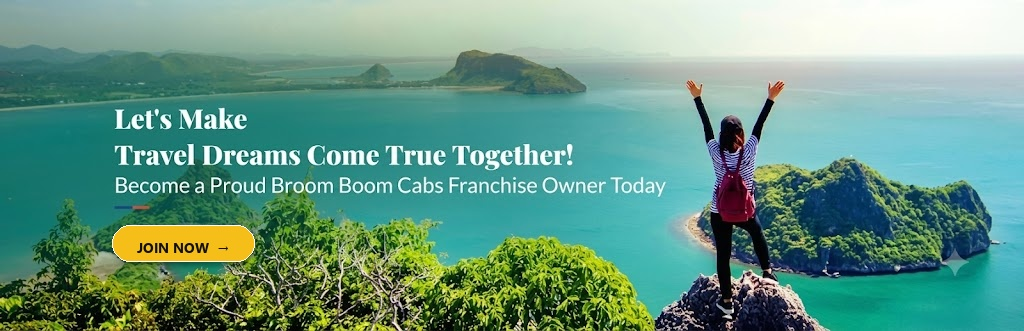
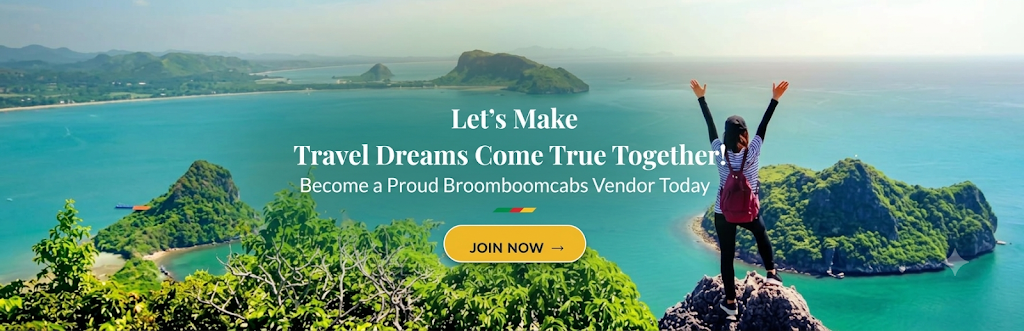
fix

diff --git a/broomboomvendor page/src/app/layout.tsx b/broomboomvendor page/src/app/layout.tsx
@@ -27,7 +27,6 @@ export const metadata: Metadata = {
     "BroomBoom cabs",
   ],
 
-  // Keep Vendor page out of Google
   robots: {
     index: true,
     follow: true,
@@ -38,7 +37,6 @@ export const metadata: Metadata = {
       "https://vendor.broomboomcabs.com"
   ),
 
-  // Open Graph
   openGraph: {
     title:
       "BroomBoom Vendor Partner | Attach Your Cabs & Fleet with India's Leading Network",
@@ -62,12 +60,10 @@ export const metadata: Metadata = {
     type: "website",
   },
 
-  // Twitter
   twitter: {
     card: "summary_large_image",
 
-    title:
-      "BroomBoom Vendor Partner | Attach Your Cabs & Fleet",
+    title: "BroomBoom Vendor Partner | Attach Your Cabs & Fleet",
 
     description:
       "Attach your commercial cabs, sedans, SUVs, and fleet with BroomBoom. Enjoy 0% introductory commission and daily direct bank settlements.",
@@ -75,16 +71,11 @@ export const metadata: Metadata = {
     images: ["/broomboom-logo.png"],
   },
 
-  // PWA / App icons
   icons: {
     icon: [
       {
         url: "/favicon.ico",
         sizes: "any",
-      },
-      {
-        url: "/broomboom-logo.png",
-        type: "image/png",
       },
       {
         url: "/favicon-48x48.png",
@@ -111,14 +102,9 @@ export const metadata: Metadata = {
         sizes: "180x180",
         type: "image/png",
       },
-      {
-        url: "/broomboom-logo.png",
-        type: "image/png",
-      },
     ],
   },
 
-  // Web App Manifest
   manifest: "/site.webmanifest",
 
   applicationName: "BroomBoom Vendor",
@@ -140,59 +126,39 @@ export const metadata: Metadata = {
 
 export default function RootLayout({
   children,
-}: {
+}: Readonly<{
   children: React.ReactNode;
-}) {
+}>) {
   return (
-    <html lang="en" className="scroll-smooth">
-      <head>
-        {/* ================================
-            Google Tag Manager
-            GTM-N6D7HH8
-        ================================= */}
+    <html lang="en" className="scroll-smooth" suppressHydrationWarning>
+      <body className="min-h-screen bg-puja-cream text-slate-900 antialiased" suppressHydrationWarning>
+        {/* Google Tag Manager */}
         <Script
           id="google-tag-manager"
-          strategy="afterInteractive"
-          dangerouslySetInnerHTML={{
-            __html: `
-              (function(w,d,s,l,i){w[l]=w[l]||[];w[l].push({'gtm.start':
-              new Date().getTime(),event:'gtm.js'});var f=d.getElementsByTagName(s)[0],
-              j=d.createElement(s),dl=l!='dataLayer'?'&l='+l:'';j.async=true;j.src=
-              'https://www.googletagmanager.com/gtm.js?id='+i+dl;f.parentNode.insertBefore(j,f);
-              })(window,document,'script','dataLayer','GTM-N6D7HH8');
-            `,
-          }}
-        />
+          strategy="lazyOnload"
+        >
+          {`
+            (function(w,d,s,l,i){
+              w[l]=w[l]||[];
+              w[l].push({
+                'gtm.start': new Date().getTime(),
+                event:'gtm.js'
+              });
 
-        {/* ================================
-            Google Analytics 4
-            G-JD89KXBSS2
-        ================================= */}
-        <Script
-          src="https://www.googletagmanager.com/gtag/js?id=G-JD89KXBSS2"
-          strategy="afterInteractive"
-        />
+              var f=d.getElementsByTagName(s)[0],
+                  j=d.createElement(s),
+                  dl=l!='dataLayer'?'&l='+l:'';
 
-        <Script
-          id="google-analytics"
-          strategy="afterInteractive"
-          dangerouslySetInnerHTML={{
-            __html: `
-              window.dataLayer = window.dataLayer || [];
-              function gtag(){dataLayer.push(arguments);}
-              gtag('js', new Date());
-              gtag('config', 'G-JD89KXBSS2');
-            `,
-          }}
-        />
-      </head>
+              j.async=true;
+              j.src='https://www.googletagmanager.com/gtm.js?id='+i+dl;
 
-      <body className="antialiased text-slate-900 bg-puja-cream min-h-screen">
-        {/* ================================
-            Google Tag Manager noscript
-            GTM-N6D7HH8
-        ================================= */}
-        <noscript>
+              f.parentNode.insertBefore(j,f);
+            })(window,document,'script','dataLayer','GTM-N6D7HH8');
+          `}
+        </Script>
+
+        {/* Google Tag Manager - NoScript */}
+        <noscript suppressHydrationWarning>
           <iframe
             src="https://www.googletagmanager.com/ns.html?id=GTM-N6D7HH8"
             height="0"
@@ -201,10 +167,10 @@ export default function RootLayout({
               display: "none",
               visibility: "hidden",
             }}
+            title="Google Tag Manager"
           />
         </noscript>
 
-        {/* Main Application */}
         {children}
       </body>
     </html>

diff --git a/broomboomvendor page/public/sw.js b/broomboomvendor page/public/sw.js
@@ -1,26 +1,92 @@
 // BroomBoom Vendor App Service Worker for PWA
-const CACHE_NAME = 'broomboom-vendor-v1';
 
-self.addEventListener('install', (event) => {
+const CACHE_NAME = "broomboom-vendor-v2";
+
+// If running on localhost or in development, do not intercept requests and auto-unregister
+const isLocalhost =
+  self.location.hostname === "localhost" ||
+  self.location.hostname === "127.0.0.1" ||
+  self.location.hostname.endsWith(".local");
+
+self.addEventListener("install", (event) => {
   self.skipWaiting();
 });
 
-self.addEventListener('activate', (event) => {
+self.addEventListener("activate", (event) => {
   event.waitUntil(
-    caches.keys().then((cacheNames) => {
-      return Promise.all(
+    (async () => {
+      if (isLocalhost) {
+        // Clean all caches and unregister on localhost
+        const cacheNames = await caches.keys();
+        await Promise.all(cacheNames.map((name) => caches.delete(name)));
+        await self.registration.unregister();
+        return;
+      }
+      const cacheNames = await caches.keys();
+      await Promise.all(
         cacheNames
           .filter((name) => name !== CACHE_NAME)
           .map((name) => caches.delete(name))
       );
-    }).then(() => self.clients.claim())
+      await self.clients.claim();
+    })()
   );
 });
 
-self.addEventListener('fetch', (event) => {
-  // Let browser handle normal network requests
-  if (event.request.method !== 'GET') return;
+self.addEventListener("fetch", (event) => {
+  // Never intercept requests on localhost
+  if (isLocalhost) {
+    return;
+  }
+
+  // Only handle GET requests
+  if (event.request.method !== "GET") {
+    return;
+  }
+
+  const url = new URL(event.request.url);
+
+  // NEVER intercept Next.js internals, static chunks, HMR, or API endpoints
+  if (
+    url.pathname.startsWith("/_next/") ||
+    url.pathname.startsWith("/api/") ||
+    url.pathname.includes("webpack") ||
+    (url.protocol !== "http:" && url.protocol !== "https:")
+  ) {
+    return;
+  }
+
+  // For navigational requests (HTML pages), try network first
+  if (event.request.mode === "navigate") {
+    event.respondWith(
+      fetch(event.request).catch(async () => {
+        const cachedResponse = await caches.match(event.request);
+        if (cachedResponse) {
+          return cachedResponse;
+        }
+        return new Response(
+          "<!DOCTYPE html><html><body style='font-family:sans-serif;text-align:center;padding:50px;'><h2>Offline</h2><p>Please check your internet connection.</p></body></html>",
+          {
+            status: 503,
+            statusText: "Service Unavailable",
+            headers: {
+              "Content-Type": "text/html; charset=utf-8",
+            },
+          }
+        );
+      })
+    );
+    return;
+  }
+
+  // For other static assets (images, fonts)
   event.respondWith(
-    fetch(event.request).catch(() => caches.match(event.request))
+    fetch(event.request).catch(async () => {
+      const cachedResponse = await caches.match(event.request);
+      if (cachedResponse) {
+        return cachedResponse;
+      }
+      return new Response("", { status: 408, statusText: "Request Timeout" });
+    })
   );
 });

diff --git a/broomboomvendor page/src/components/PwaInstallPrompt.tsx b/broomboomvendor page/src/components/PwaInstallPrompt.tsx
@@ -23,12 +23,31 @@ export const PwaInstallPrompt: React.FC = () => {
       return;
     }
 
-    // Register Service Worker for PWA
-    if ("serviceWorker" in navigator) {
-      navigator.serviceWorker
-        .register("/sw.js")
-        .then((reg) => console.log("PWA Service Worker registered:", reg.scope))
-        .catch((err) => console.log("PWA SW registration failed:", err));
+    // Register Service Worker for PWA (production and non-localhost only)
+    if (typeof window !== "undefined" && "serviceWorker" in navigator) {
+      const isLocalhost =
+        window.location.hostname === "localhost" ||
+        window.location.hostname === "127.0.0.1" ||
+        window.location.hostname.endsWith(".local");
+
+      if (isLocalhost || process.env.NODE_ENV !== "production") {
+        // Automatically cleanup any active or broken service workers on localhost
+        navigator.serviceWorker.getRegistrations().then((registrations) => {
+          for (const registration of registrations) {
+            registration.unregister();
+          }
+        });
+        if ("caches" in window) {
+          caches.keys().then((keys) => {
+            keys.forEach((key) => caches.delete(key));
+          });
+        }
+      } else {
+        navigator.serviceWorker
+          .register("/sw.js")
+          .then((reg) => console.log("PWA Service Worker registered:", reg.scope))
+          .catch((err) => console.log("PWA SW registration failed:", err));
+      }
     }
 
     // Detect iOS

diff --git a/broomboomvendor page/src/app/api/admin/tickets/route.ts b/broomboomvendor page/src/app/api/admin/tickets/route.ts
@@ -22,11 +22,11 @@ export async function GET(request: Request) {
     const allTickets = await prisma.planChangeTicket.findMany();
     const stats = {
       total: allTickets.length,
-      pending: allTickets.filter((t) => t.status === "PENDING").length,
-      awaitingPayment: allTickets.filter((t) => t.status === "AWAITING_PAYMENT").length,
-      paymentCompleted: allTickets.filter((t) => t.status === "PAYMENT_COMPLETED").length,
-      completed: allTickets.filter((t) => t.status === "COMPLETED" || t.status === "APPROVED").length,
-      rejected: allTickets.filter((t) => t.status === "REJECTED").length,
+      pending: allTickets.filter((t: any) => t.status === "PENDING").length,
+      awaitingPayment: allTickets.filter((t: any) => t.status === "AWAITING_PAYMENT").length,
+      paymentCompleted: allTickets.filter((t: any) => t.status === "PAYMENT_COMPLETED").length,
+      completed: allTickets.filter((t: any) => t.status === "COMPLETED" || t.status === "APPROVED").length,
+      rejected: allTickets.filter((t: any) => t.status === "REJECTED").length,
     };
 
     return NextResponse.json({ success: true, count: tickets.length, stats, tickets });

diff --git a/broomboomvendor page/src/components/HeroSection.tsx b/broomboomvendor page/src/components/HeroSection.tsx
@@ -30,8 +30,8 @@ export const HeroSection: React.FC<HeroSectionProps> = ({
           <Image
             src="/hero-banner-v2.png"
             alt="Let's Make Travel Dreams Come True Together! Become a Proud Broom Boom Cabs Vendor Partner Today"
-            width={1920}
-            height={600}
+            width={1024}
+            height={331}
             className="w-full h-auto object-cover"
             priority
           />
@@ -58,7 +58,7 @@ export const HeroSection: React.FC<HeroSectionProps> = ({
                 Travel Dreams Come True Together!
               </h1>
               <p className="text-[11px] sm:text-xs font-extrabold text-slate-900 mt-0.5 sm:mt-1 max-w-[290px] mx-auto drop-shadow-[0_1px_3px_rgba(255,255,255,0.95)] leading-tight">
-                Become a Proud Broom Boom Cabs Franchise Owner Today
+                Become a Proud BroomBoom Cabs Vendor Owner Today
               </p>
             </div>
 

diff --git a/broomboomvendor page/src/app/api/export/route.ts b/broomboomvendor page/src/app/api/export/route.ts
@@ -58,7 +58,7 @@ export async function GET(_request: Request) {
       "Updated At",
     ];
 
-    const rows = leads.map((lead) => [
+    const rows = leads.map((lead: any) => [
       lead.id,
       lead.applicationId,
       lead.fullName,
@@ -88,7 +88,7 @@ export async function GET(_request: Request) {
 
     const csvData = [
       headers.map(escapeCsv).join(","),
-      ...rows.map((row) => row.map(escapeCsv).join(",")),
+      ...rows.map((row: any[]) => row.map(escapeCsv).join(",")),
     ].join("\r\n");
 
     const filename = `broomboom-vendor-leads-${new Date()
